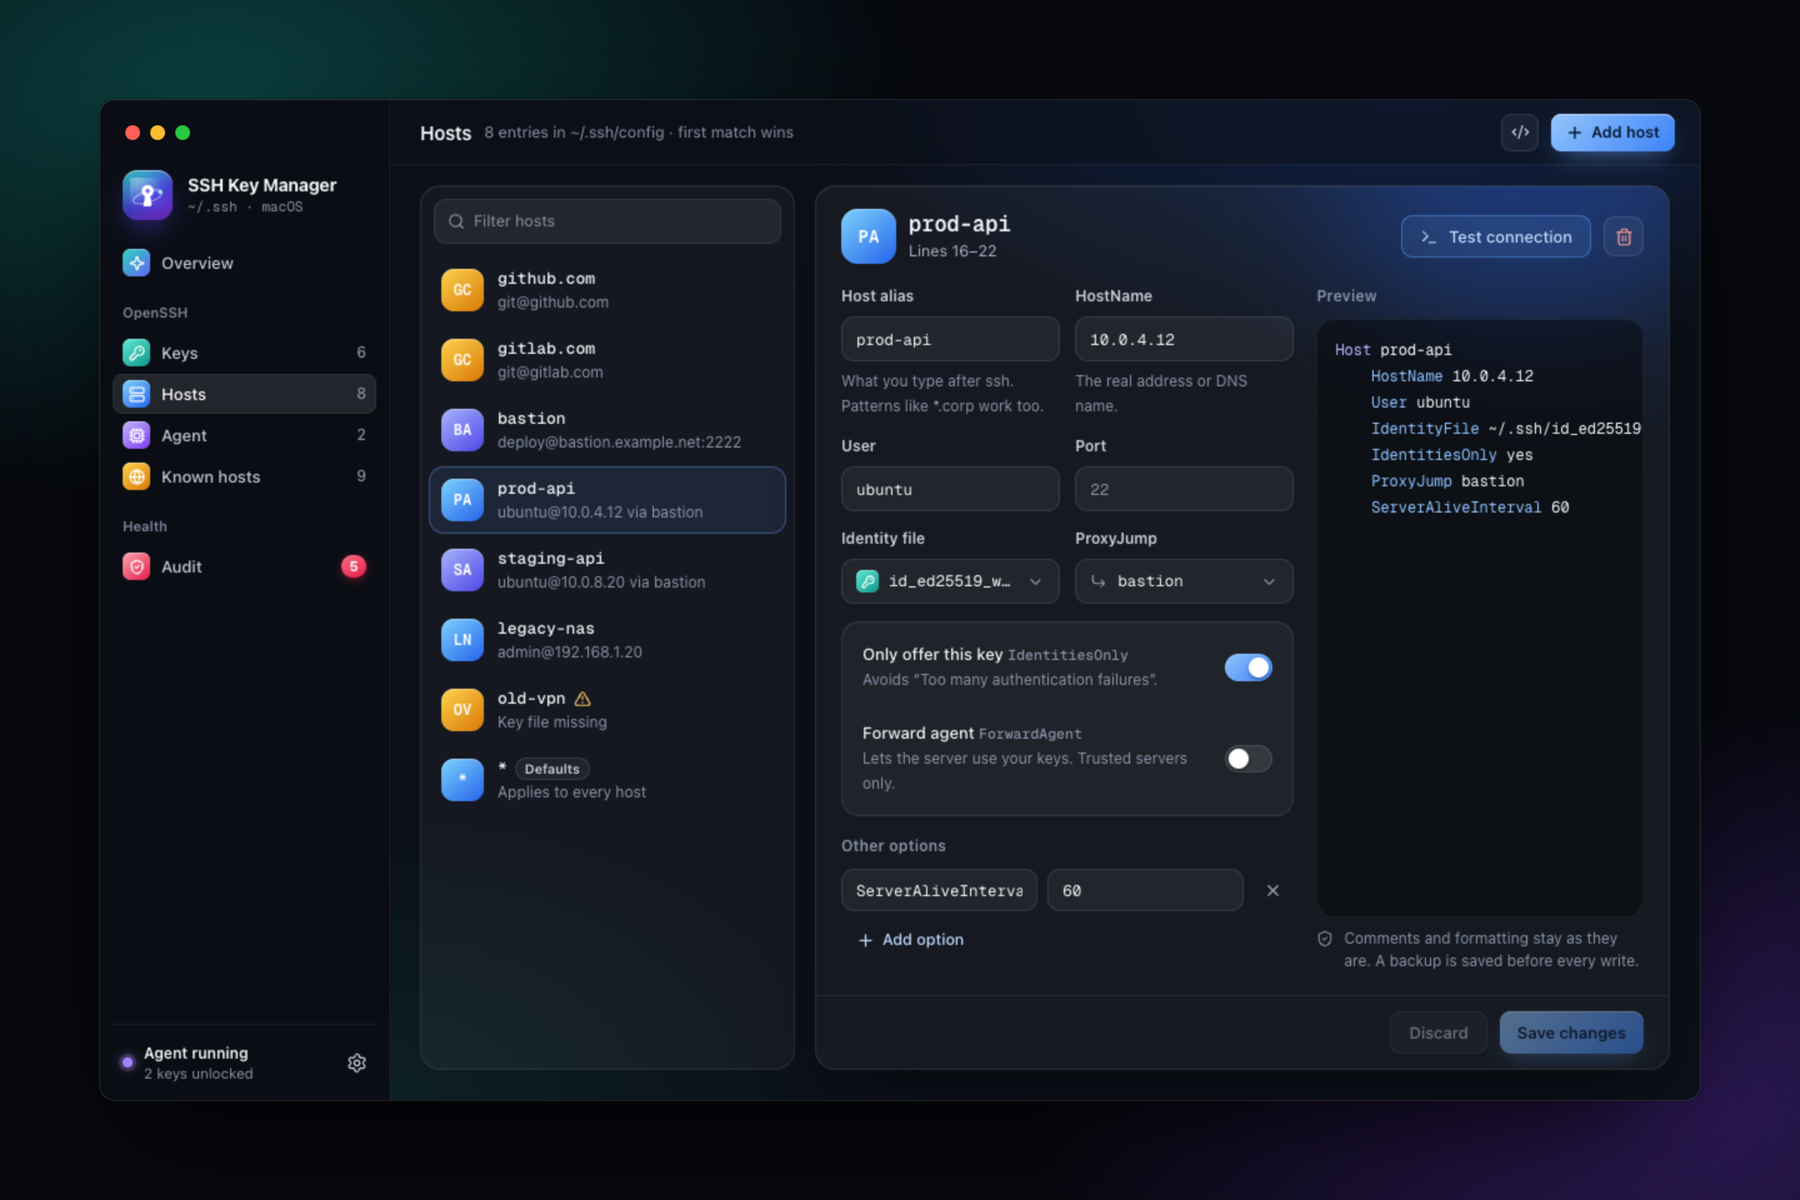
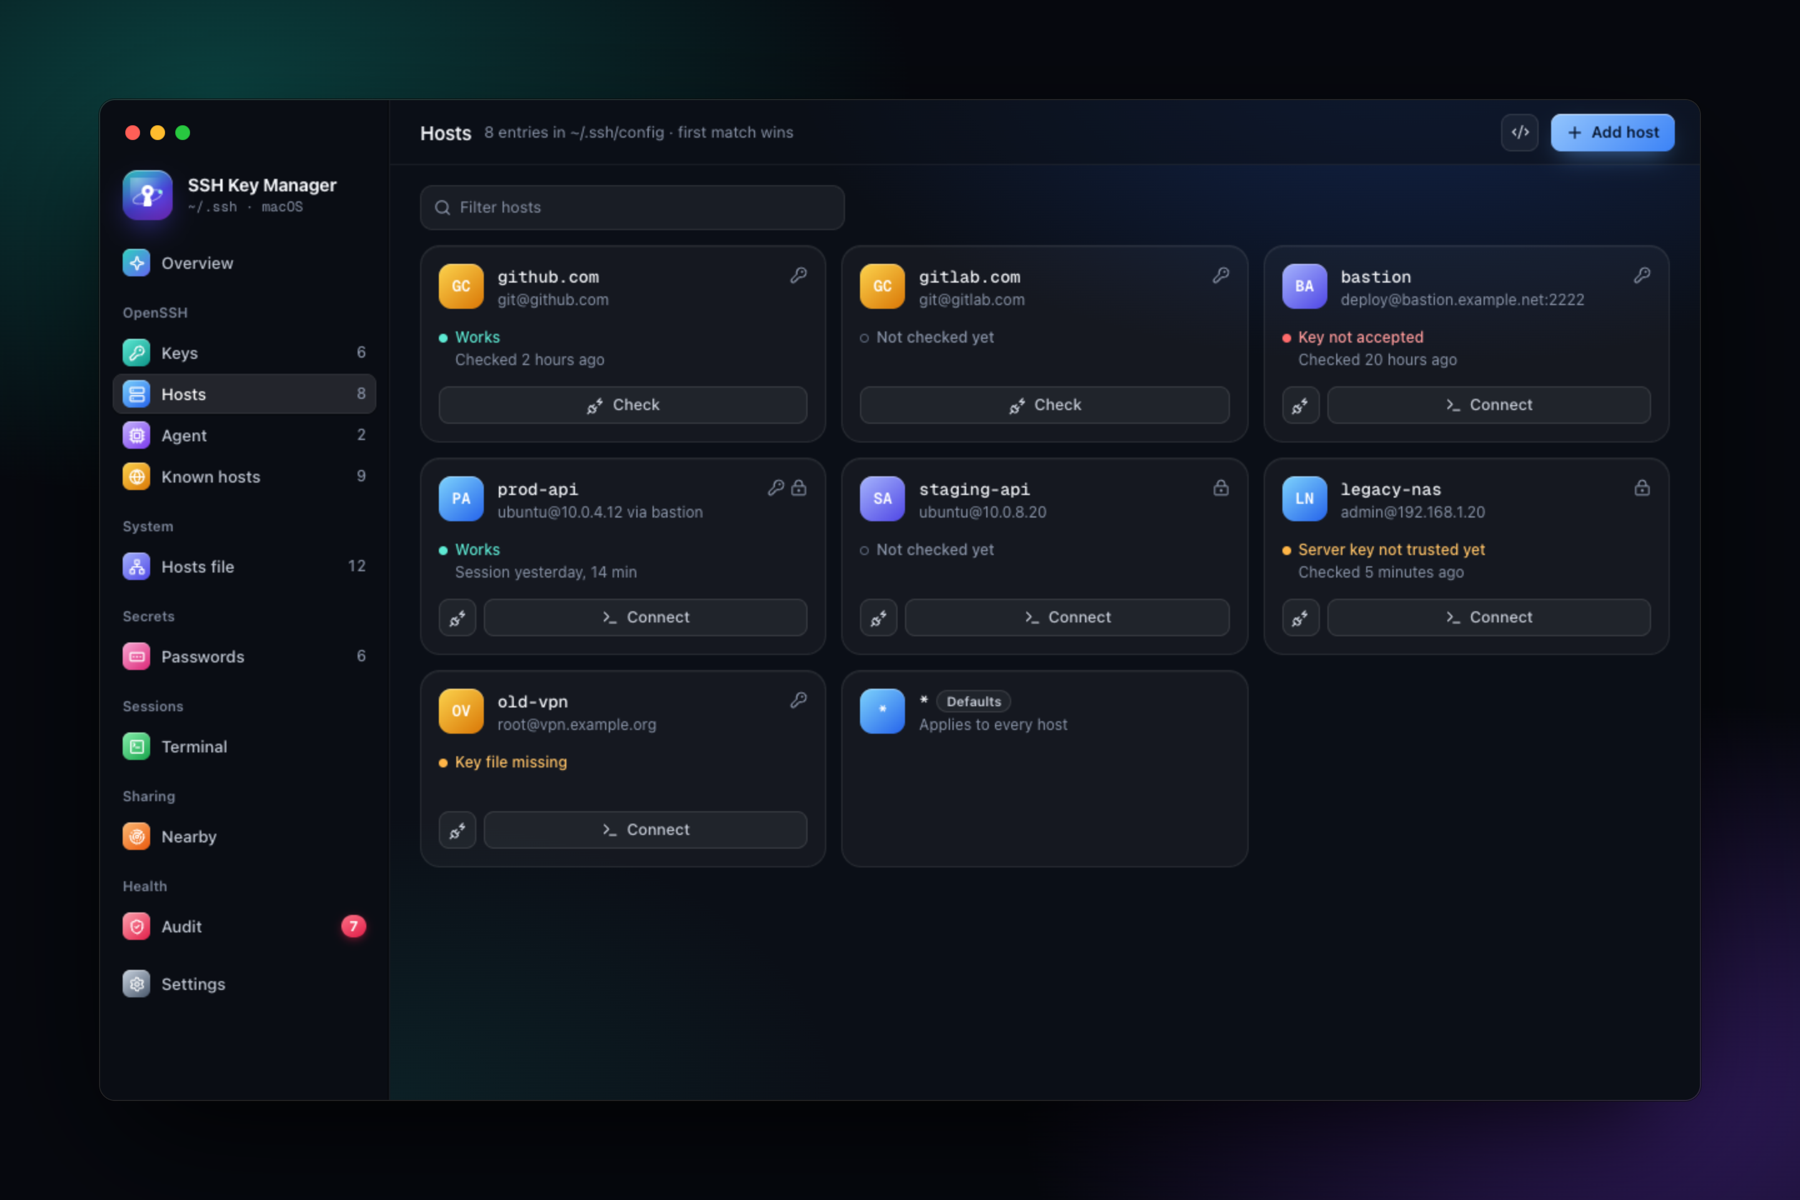
Update the README and its screenshots for 0.7.0
- Screenshots: all seven retaken, and five new ones: the hosts file,
  Passwords, Terminal, Nearby with my devices, and Settings with the
  Background and Browser autofill sections. Hosts now shows the cards
  with connection status. The browser autofill cell uses the extension's
  store image of the fill menu.
- capture.mjs opens the mock vault unlocked for every shot and can
  scroll to a section heading, for the Settings shot.
- README: new Hosts file, Browser autofill and "Runs in the background"
  sections; Hosts describes the cards, connection history, the keys on
  a server and the passphrase asked before a check; Passwords shows
  saved secrets in place; Audit lists the hosts file and password
  checks; Privacy says a login fills only after a system prompt; a line
  links CHANGELOG.md.

diff --git a/README.md b/README.md
@@ -5,7 +5,7 @@
 <h1 align="center">SSH Key Manager</h1>
 
 <p align="center">
-  Your SSH keys, hosts and agent in one clear window.<br>
+  Your SSH keys, hosts and passwords in one clear window.<br>
   For macOS, Windows and Linux · in English, Русский and Oʻzbekcha
 </p>
 
@@ -33,6 +33,7 @@ SSH Key Manager is a desktop app for the SSH setup you already have.
 - It works directly on the standard OpenSSH files (`~/.ssh`, `~/.ssh/config`, `~/.ssh/known_hosts`) and the `ssh-agent` your system runs, so `ssh`, `git` and your IDE keep working exactly as before.
 - There is no account, no cloud and no new place your keys live.
 - One click checks your whole setup, and anything that needs fixing is explained in plain words.
+- Around that: an encrypted vault for your passwords, a terminal, browser autofill, and a way to share with computers near you.
 
 ## Download
 
@@ -51,7 +52,7 @@ Want the newest version before a release? Every change to the `main` branch is b
 1. Open the [latest builds](https://github.com/nuriddin2468/ssh-key-manager/actions/workflows/build.yml) and pick the top green run.
 2. Download your system's file from **Artifacts**. You need to be signed in to GitHub, and the files are kept for 30 days.
 
-Once installed, the app keeps itself up to date: it offers new versions as they are released, and checks every update's signature before installing it.
+Once installed, the app keeps itself up to date: it offers new versions as they are released, and checks every update's signature before installing it. What changed in each version is in [CHANGELOG.md](CHANGELOG.md).
 
 See also the [Code signing policy](#code-signing-policy).
 
@@ -67,33 +68,50 @@ Builds are not code-signed yet (it's on the [roadmap](#roadmap)), so your system
 
 <table>
   <tr>
-    <td width="50%"><img src="docs/screenshots/keys.png" alt="Keys: every key with its type, status and the hosts that use it"><p align="center"><b>Keys</b>: everything about each key, with fixes for what's wrong</p></td>
+    <td width="50%"><img src="docs/screenshots/keys.png" alt="Keys: every key with its type, status and the hosts that use it"><p align="center"><b>Keys</b>: everything about each key, and quick fixes</p></td>
     <td width="50%"><img src="docs/screenshots/generate.png" alt="Generate a new key dialog"><p align="center"><b>New key</b>: Ed25519, RSA or ECDSA in one dialog</p></td>
   </tr>
   <tr>
-    <td width="50%"><img src="docs/screenshots/hosts.png" alt="Hosts: a form editor for ~/.ssh/config with a live preview"><p align="center"><b>Hosts</b>: edit <code>~/.ssh/config</code> with a form</p></td>
+    <td width="50%"><img src="docs/screenshots/hosts.png" alt="Hosts: each host in ~/.ssh/config as a card that says whether it works"><p align="center"><b>Hosts</b>: every server, and whether you can get in</p></td>
     <td width="50%"><img src="docs/screenshots/agent.png" alt="Agent: keys unlocked in ssh-agent with time left"><p align="center"><b>Agent</b>: unlock keys for 1 hour, 8 hours or until logout</p></td>
   </tr>
   <tr>
-    <td width="50%"><img src="docs/screenshots/audit.png" alt="Audit: findings grouped by severity with one-click fixes"><p align="center"><b>Audit</b>: what weakens your security, and how to fix it</p></td>
     <td width="50%"><img src="docs/screenshots/known.png" alt="Known hosts: trusted server keys, including hashed entries"><p align="center"><b>Known hosts</b>: the servers you trust, and safe clean-up</p></td>
+    <td width="50%"><img src="docs/screenshots/hosts-file.png" alt="Hosts file: the entries of /etc/hosts, in groups that can be turned on and off"><p align="center"><b>Hosts file</b>: <code>/etc/hosts</code> with groups and switches</p></td>
+  </tr>
+  <tr>
+    <td width="50%"><img src="docs/screenshots/passwords.png" alt="Passwords: logins, SSH hosts and key passphrases in an encrypted vault"><p align="center"><b>Passwords</b>: an encrypted vault for servers and websites</p></td>
+    <td width="50%"><img src="docs/screenshots/terminal.png" alt="Terminal: an ssh session in a tab, signed in with a password and 2FA code from the vault"><p align="center"><b>Terminal</b>: sessions in tabs, signed in from the vault</p></td>
+  </tr>
+  <tr>
+    <td width="50%"><img src="docs/screenshots/nearby.png" alt="Nearby: my devices in sync, and other computers on the network to pair with"><p align="center"><b>Nearby</b>: your other computers, and your colleagues'</p></td>
+    <td width="50%"><img src="docs/screenshots/audit.png" alt="Audit: findings grouped by severity with one-click fixes"><p align="center"><b>Audit</b>: what weakens your security, and how to fix it</p></td>
+  </tr>
+  <tr>
+    <td width="50%"><img src="docs/screenshots/background.png" alt="Settings: keep running when the window is closed, and the browsers connected for autofill"><p align="center"><b>Settings</b>: keep running in the tray, connect your browsers</p></td>
+    <td width="50%"><img src="extension/store/images/en/1-fill.png" alt="Browser autofill: the extension's menu under a login field, with two saved logins for the site"><p align="center"><b>Browser autofill</b>: your logins, on their own site only</p></td>
   </tr>
 </table>
 
 <sub>Screenshots show sample data.</sub>
 
-**Overview.** One button checks your keys, config and file permissions and tells you, in a sentence, how things stand.
+**Overview.** One button checks your keys, config, file permissions and hosts file, and tells you, in a sentence, how things stand.
 
 **Keys**
 - See every key in `~/.ssh` at a glance: its type, fingerprint, whether it has a passphrase, whether it is loaded in the agent, and which servers use it.
-- Create a new key (Ed25519, RSA or ECDSA). The same dialog can unlock it in the agent and add a server entry for it.
+- Create a new key (Ed25519, RSA or ECDSA). The same dialog can save its passphrase in your vault, unlock it in the agent and add a host for it.
 - Copy a public key in one click, ready to paste into GitHub, GitLab or a server.
 - Add, change or remove a passphrase. Import existing keys.
 - Deleted keys go to the Trash, so you can get them back.
 
-**Hosts.** Edit `~/.ssh/config` with a form instead of a text editor, so you can type `ssh prod` instead of the full address, user, port and key.
+**Hosts.** Every host in `~/.ssh/config` gets a card that says where it stands: it works, the server didn't accept your key, its key isn't trusted yet, and so on. Check a host or connect to it right from its card.
+- Open a host to edit it with a form instead of a text editor, so you can type `ssh prod` instead of the full address, user, port and key. The form follows how you sign in: with a key, a password, or both.
 - Your comments and formatting are kept exactly as they were, and a backup is made before every change.
-- Test a connection right from the app.
+- Each check and terminal session goes into a short history: when, and whether it worked. Never what the server printed.
+- If a key needs its passphrase for a check, the app asks first, or takes it from your vault.
+- See which keys can sign in to a server (its `~/.ssh/authorized_keys`), add one of yours or remove one. The app won't remove your last way in.
+- Move a server from a password to a key in a guided step.
+- See where a host's name leads: a line in your hosts file, or DNS.
 - Prefer text? Edit the raw file in the app.
 
 **Agent.** See which keys are unlocked right now. Unlock a key for 1 hour, 8 hours or until you log out, and lock one or all with a click.
@@ -102,22 +120,28 @@ Builds are not code-signed yet (it's on the [roadmap](#roadmap)), so your system
 - Browse the servers you have trusted, including hashed entries.
 - Seeing "REMOTE HOST IDENTIFICATION HAS CHANGED"? The app fetches the server's current key and compares it with the saved one, so you know whether it is safe to remove the old entry.
 
-**Audit**
-- Finds the things that weaken security or quietly break SSH:
-  - old or short keys;
-  - keys without a passphrase;
-  - private keys other users can read;
-  - config lines that point to missing files.
-- Fixes file permissions in one click.
+**Hosts file.** The hosts file (`/etc/hosts` on macOS and Linux) decides where ssh, git and your browser connect before DNS is asked.
+- See every entry, with filters and search. Look up a name to see where it really goes.
+- Add, edit, turn off and delete entries. Changes collect in a draft: you review the difference and save them all at once, with your administrator password. A backup is made first, and you can restore one later.
+- Keep entries in groups and turn a whole group on or off. Drag an entry from one group to another.
+- Add an entry for a while. Once its time is up, the Audit offers to turn it off.
+- Lines you don't change stay exactly as they were.
 
 **Passwords**
 - An encrypted vault for server passwords, key passphrases and website logins. It is a standard KeePass file on your computer (or in a folder you choose, such as Dropbox or iCloud Drive), so KeePassXC opens it too.
 - One master password unlocks it, or Touch ID / Windows Hello. A recovery key, shown once when you create the vault, gets you back in if you forget the master password.
 - Copy a password or 2FA code in one click: it stays out of clipboard history and is cleared after 30 seconds. A password generator and a strength meter are built in.
 - It locks itself after a few idle minutes, when the computer sleeps and when the screen locks.
-- Works with the rest of the app: a new key's passphrase can be generated and saved for you, keys unlock in the agent with their saved passphrase, a server's saved password and 2FA code are used to test the connection, and a guided step moves a server from a password to a key.
+- Works with the rest of the app: a new key's passphrase can be generated and saved for you, keys unlock in the agent with their saved passphrase, and a server's saved password and 2FA code are used to check it and to sign in.
+- Saved secrets show where you need them: a key's passphrase in the key's details, a server's password and current 2FA code in its host. They stay hidden until you click, and hide again after 30 seconds.
 - Import from Bitwarden, 1Password, Chrome, Edge, Firefox, Apple Passwords or KeePassXC; export as a KeePass copy or CSV. The Audit points out weak, reused and old passwords.
-- Browser autofill (optional): the SSH Key Manager extension for Chrome, Edge and Firefox ([Chrome Web Store](https://chromewebstore.google.com/detail/ssh-key-manager/lkmgdcanagjeajepncgokapkbihahddb)) fills a site's saved logins on that site only, and offers to save new ones. Each browser is connected once, with a code you compare in the app.
+
+**Browser autofill** (optional)
+- The SSH Key Manager extension for Chrome, Edge and Firefox fills a site's saved logins on that site only, and offers to save new ones. Get it from the [Chrome Web Store](https://chromewebstore.google.com/detail/ssh-key-manager/lkmgdcanagjeajepncgokapkbihahddb) and turn it on in **Settings → Browser autofill**.
+- Each browser is connected once, with a code you compare in the app.
+- Before a login fills a page for the first time, the app asks you with Touch ID, Windows Hello or a system dialog, so a web page can't say yes for you. Your yes lasts until you lock the vault, the screen locks or the computer sleeps, and 12 hours at most.
+- Vault locked? Unlock it from the browser: the app asks with Touch ID or Windows Hello, or in a small window of its own. You never type the master password in the browser.
+- The keys between the browser and the app change every day. If someone uses a copy of old keys, the app disconnects that browser and tells you.
 
 **Terminal**
 - Connect to a server in the app: sessions open in tabs and keep running while you use other sections.
@@ -128,8 +152,23 @@ Builds are not code-signed yet (it's on the [roadmap](#roadmap)), so your system
 - Pair with a colleague's computer, or another of your own, on the same network: both screens show a six-digit code, and you pair only if they match.
 - Send a password, a host, a group of your hosts file or your public key. Nothing is saved until the other side accepts, and a hosts file group is written only after they review the change and give the administrator password.
 - Computers talk to each other directly and encrypted. There is no server in between, and your computer is visible to others only for ten minutes after you ask.
-- Set up a new computer of your own from one you have: it gets your vault over the network after you compare the codes and confirm with Touch ID or your master password, and sets its own master password.
-- Keep your hosts and server keys in step across your computers with **Sync now**. Each computer keeps its own sign-in keys; changes that run a program, many deletions and conflicts wait for your choice.
+- **My devices**: set up a new computer of your own from one you have. It gets your vault over the network after you compare the codes and confirm with Touch ID or your master password, and sets its own master password.
+- Keep your hosts and server keys in step across your devices with **Sync now**. Each computer keeps its own sign-in keys; changes that run a program, many deletions and conflicts wait for your choice.
+
+**Audit**
+- Finds the things that weaken security or quietly break SSH:
+  - old or short keys;
+  - keys without a passphrase;
+  - private keys other users can read;
+  - config lines that point to missing files;
+  - a hosts file that sends github.com or another code host somewhere else;
+  - hosts file entries still on after their time;
+  - weak, reused and old passwords.
+- Most findings come with a button that fixes them or takes you there. File permissions are fixed in one click.
+
+**Runs in the background.** With **Settings → Background** on, closing the window leaves the app running in the tray (the menu bar on macOS). Browser autofill, your devices and terminal sessions keep working.
+- The tray menu shows whether the vault is locked and locks it, connects to a recent host, tells you when a computer nearby is waiting for your answer, and quits.
+- It's on by default on macOS and Windows. On Linux, turn it on yourself; the tray icon needs the `libayatana-appindicator3-1` package.
 
 **Feels native.** Menu bar and keyboard shortcuts on macOS (⌘1–9, ⌘N, ⌘T, ⌘,), and changes you make in a terminal show up instantly.
 
@@ -138,6 +177,7 @@ Builds are not code-signed yet (it's on the [roadmap](#roadmap)), so your system
 - **Nothing leaves your computer.** The app sends none of your data anywhere. It goes online only to check GitHub for a new version of itself (you can turn this off in **Settings → Updates**) and when you ask it to reach a server: checking a host key, testing a connection or opening a terminal session. **Nearby** talks only to other computers running the app on your local network, directly and encrypted, and only while you use it, or, for your own computers, while your vault is unlocked (you can turn that off).
 - **Your private keys stay private.** The interface only ever sees public keys and fingerprints. Passphrases are used once and never stored, unless you save them in your password vault.
 - **Your passwords stay encrypted.** The vault is decrypted only in memory while it's unlocked, and the interface sees a password only when you choose to reveal it. There is no way in without the master password or the recovery key, so keep the recovery key somewhere safe.
+- **Browsers get only what you allow.** A login fills only on its own site, and only after you say yes in a prompt your system shows, not the web page.
 - **Your files stay standard.** Everything is plain OpenSSH, and you can stop using the app at any time.
 - **Mistakes can be undone.** Config files are backed up before every edit, and keys go to the Trash, not into oblivion.
 - **Administrator rights only when you save the hosts file.** The app never keeps them: it shows you the diff, asks for your password once, and backs up the file first.
